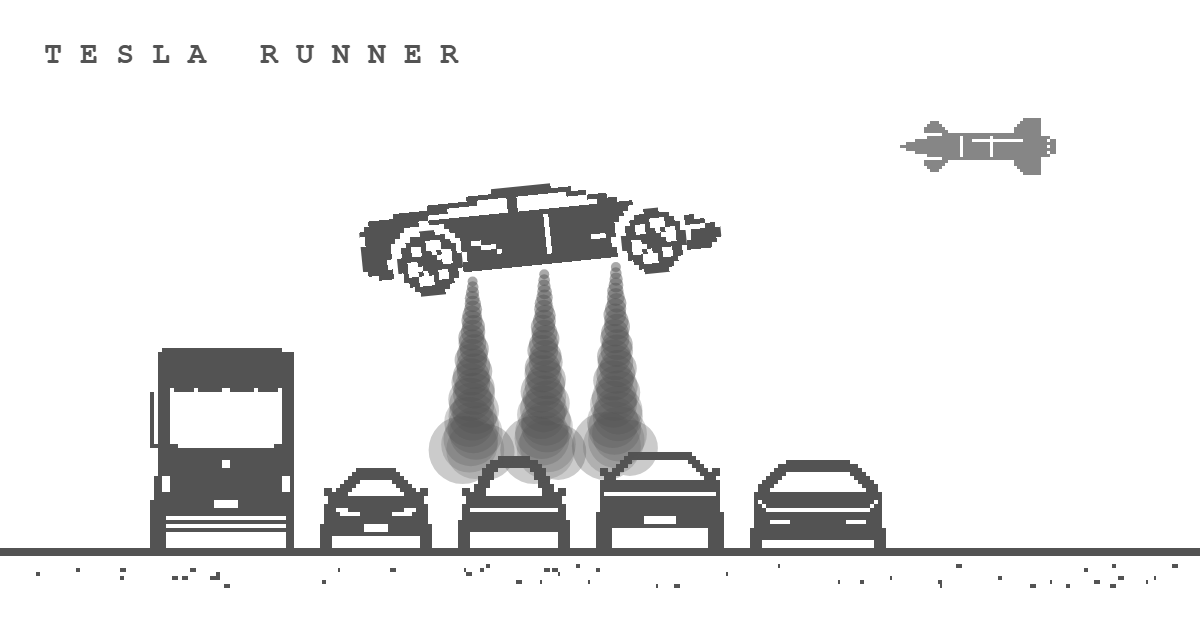
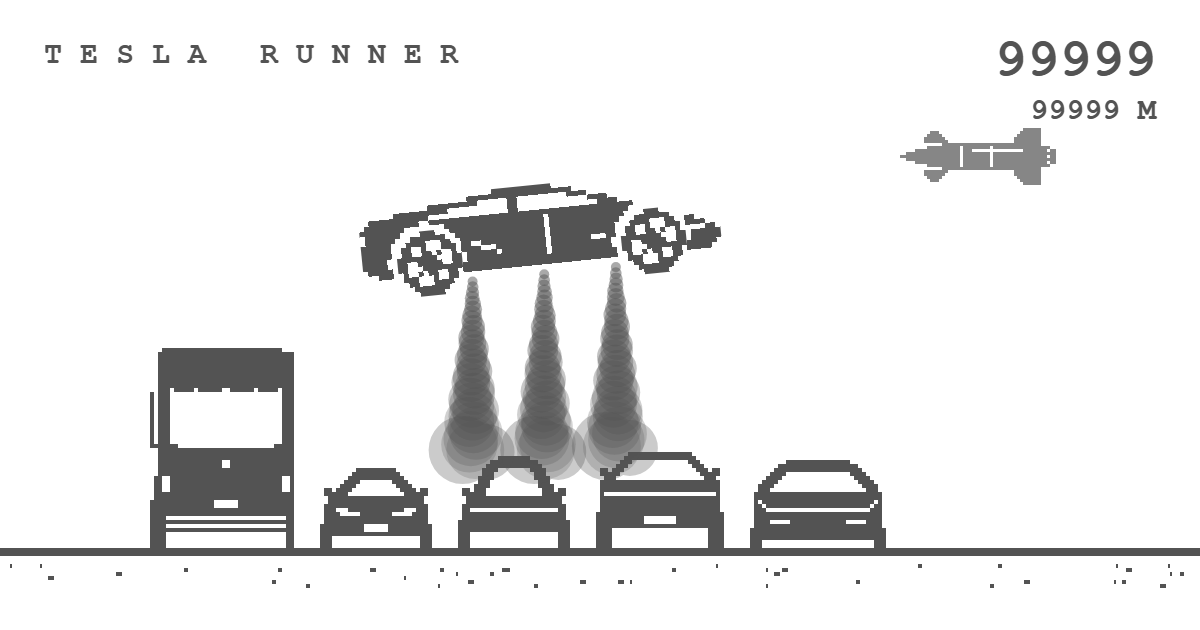
Espacio respeta el nombre en escritura, tarjeta de enlace con og-image y Worker de Cloudflare para el leaderboard
- Espacio reinicia solo con el campo del nombre vacío; con texto escrito es un espacio del nombre
- Compartir en X: tuit localizado + enlace; la imagen sale como tarjeta (og:image 99999 pts / 99999 M)
- worker/: Cloudflare Worker que guarda el TOP 100 como scores.json en la rama leaderboard (con tests)
- README: guía de la opción Cloudflare

diff --git a/index.html b/index.html
@@ -4,14 +4,23 @@
 <meta charset="utf-8">
 <meta name="viewport" content="width=device-width, initial-scale=1, user-scalable=no">
 <title>Tesla Runner</title>
-<meta name="description" content="El juego del dinosaurio de Chrome con un Tesla Roadster propulsado por gas frío.">
+<meta name="description" content="Tesla Runner: el juego del dinosaurio de Chrome con un Tesla Roadster propulsado por gas frío. Salta, vuela y haz piruetas.">
+<meta property="og:type" content="website">
 <meta property="og:title" content="Tesla Runner">
-<meta property="og:description" content="El juego del dinosaurio de Chrome con un Tesla Roadster propulsado por gas frío.">
+<meta property="og:description" content="El juego del dinosaurio de Chrome con un Tesla Roadster propulsado por gas frío. ¿Cuántos puntos haces?">
+<meta property="og:url" content="https://jamarlli.github.io/tesla-runner/">
 <meta property="og:image" content="https://jamarlli.github.io/tesla-runner/og-image.png">
+<meta property="og:image:width" content="1200">
+<meta property="og:image:height" content="630">
+<meta property="og:image:alt" content="El Tesla Roadster flotando sobre una fila de coches con gas frío y un Starship acercándose, con 99999 puntos y 99999 metros">
 <meta name="twitter:card" content="summary_large_image">
+<meta name="twitter:title" content="Tesla Runner">
+<meta name="twitter:description" content="El juego del dinosaurio de Chrome con un Tesla Roadster propulsado por gas frío.">
+<meta name="twitter:image" content="https://jamarlli.github.io/tesla-runner/og-image.png">
 <script>
-  // URL del servidor del leaderboard (déjalo vacío si sirves el juego con server.js). Ejemplo: 'https://tesla-runner.fly.dev'
-  window.TESLA_RUNNER_API = '';
+  // API del leaderboard cuando el juego está en GitHub Pages (Worker de Cloudflare que guarda el TOP 100 en la rama "leaderboard" del repo).
+  // En local (localhost) se usa siempre server.js; con ?api=https://... se puede probar otro servidor.
+  window.TESLA_RUNNER_API = 'https://tesla-runner-api.paper-jev.workers.dev';
 </script>
 <style>
   html, body { margin: 0; height: 100%; background: #fff; transition: background 1s; }
@@ -64,7 +73,6 @@
   #over .foot { display: flex; justify-content: space-between; align-items: center; gap: 10px; flex-wrap: wrap; }
   #over .again { display: flex; gap: 8px; align-items: center; font-size: 10px; }
   #over .note { font-size: 10px; opacity: .7; text-transform: none; }
-  #toast { font-size: 10px; text-transform: none; min-height: 12px; }
   @media (max-width: 520px) { #board { columns: 1; } }
 </style>
 </head>
@@ -93,7 +101,6 @@
         <button id="shareBtn" type="button" class="kbtn">COMPARTIR EN X</button>
         <div class="again"><span class="key wide" data-k="Space">ESPACIO</span><span>JUGAR OTRA VEZ</span></div>
       </div>
-      <div id="toast"></div>
     </div>
   </div>
 </div>
@@ -997,8 +1004,15 @@ const ARROWS = { ArrowLeft: 'left', ArrowRight: 'right', ArrowDown: 'down' };
 const typing = e => e.target && /^(INPUT|TEXTAREA|BUTTON|SELECT)$/.test(e.target.tagName);
 document.addEventListener('keydown', e => {
   const overOpen = S.crashed && !$('over').hidden;
-  // con el leaderboard abierto: ESPACIO vuelve a jugar siempre (guardando antes el nombre si lo has escrito)
-  if (overOpen && e.code === 'Space') { e.preventDefault(); if (!e.repeat) playAgainFromOver(); return; }
+  // con el leaderboard abierto: ESPACIO vuelve a jugar, salvo que ya hayas empezado a escribir tu nombre
+  if (overOpen && e.code === 'Space') {
+    const inp = $('nameInput');
+    if (!$('nameForm').hidden && inp.value.length > 0) {      // ya has empezado a escribir: el espacio es un espacio del nombre
+      if (e.target !== inp) { e.preventDefault(); inp.focus(); if (inp.value.length < 12) inp.value += ' '; }
+      return;
+    }
+    e.preventDefault(); if (!e.repeat) playAgainFromOver(); return;                       // campo vacío: vuelve a jugar
+  }
   // las letras van solas al campo del nombre (sin tener que pulsar en él)
   if (overOpen && !$('nameForm').hidden && e.target !== $('nameInput') && /^[a-z0-9]$/i.test(e.key) && !e.ctrlKey && !e.metaKey && !e.altKey) { $('nameInput').focus(); return; }
   if (typing(e)) return;
@@ -1023,7 +1037,7 @@ document.addEventListener('keyup', e => {
 const $ = id => document.getElementById(id);
 // Leaderboard: con server.js es el mismo servidor ('/api/scores'). Si el juego está en un hosting estático (GitHub Pages...),
 // pon la URL de tu API en TESLA_RUNNER_API (arriba, en el <head>) o pásala con ?api=https://mi-api.example.com
-const API_BASE = (new URLSearchParams(location.search).get('api') || window.TESLA_RUNNER_API || '').replace(/\/$/, '');
+const API_BASE = (new URLSearchParams(location.search).get('api') || (/^(localhost|127\.)/.test(location.hostname) ? '' : window.TESLA_RUNNER_API) || '').replace(/\/$/, '');
 const API = API_BASE ? API_BASE + '/api/scores'
   : (location.protocol.startsWith('http') && !/\.github\.io$/.test(location.hostname) ? '/api/scores' : null);
 const LS_BOARD = 'teslaRunnerBoard', LS_NAME = 'teslaRunnerName';
@@ -1082,8 +1096,10 @@ function topRank(list, sc) {
 async function showOver() {
   finalScore = score();
   $('finalScore').textContent = pad(finalScore);
-  $('nameForm').hidden = true; $('saved').hidden = true; $('saveBtn').disabled = false; $('topMsg').textContent = ''; $('toast').textContent = '';
-  try { $('nameInput').value = localStorage.getItem(LS_NAME) || ''; } catch (e) {}
+  $('nameForm').hidden = true; $('saved').hidden = true; $('saveBtn').disabled = false; $('topMsg').textContent = '';
+  $('nameInput').value = '';
+  let last = ''; try { last = localStorage.getItem(LS_NAME) || ''; } catch (e) {}
+  $('nameInput').placeholder = last || 'NOMBRE';
   $('over').hidden = false; document.body.classList.add('overOpen');
   const list = await refreshBoard(null);
   if (!S.crashed) return;
@@ -1103,7 +1119,8 @@ function hideOver() {
 const wantsSave = () => !$('over').hidden && !$('nameForm').hidden && !$('saveBtn').disabled && $('nameInput').value.trim().length > 0;
 async function saveScore() {
   if ($('saveBtn').disabled) return;
-  const name = $('nameInput').value.replace(/[<>]/g, '').trim().slice(0, 12).toUpperCase() || 'ANÓNIMO', sc = finalScore;
+  let last = ''; try { last = localStorage.getItem(LS_NAME) || ''; } catch (e) {}
+  const name = ($('nameInput').value || last).replace(/[<>]/g, '').replace(/\s+/g, ' ').trim().slice(0, 12).toUpperCase() || 'ANÓNIMO', sc = finalScore;
   try { localStorage.setItem(LS_NAME, name); } catch (err) {}
   $('saveBtn').disabled = true;
   const entry = await postScore(name, sc);
@@ -1113,40 +1130,42 @@ async function saveScore() {
   $('topMsg').textContent = ''; $('saved').hidden = false; $('saved').textContent = '¡Guardado!';
   await refreshBoard(entry);
 }
-// Espacio con el panel abierto: guarda el nombre (si lo has escrito) y vuelve a jugar
-function playAgainFromOver() { if (wantsSave()) saveScore(); press(); }
+function playAgainFromOver() { press(); }
 
-/* ----- Compartir en X: texto en el idioma del navegador + imagen de la demo con tu puntuación ----- */
+/* ----- Compartir en X: texto en el idioma del navegador + enlace. La imagen la pone X sola como tarjeta del enlace (og:image) ----- */
 const I18N = {
-  es: { text: '¡He conseguido {n} puntos en Tesla Runner! 🚗🚀 ¿Me superas?', copied: 'Imagen copiada: pégala con Ctrl+V en el tuit', saved: 'Imagen descargada: adjúntala al tuit' },
-  en: { text: 'I scored {n} points in Tesla Runner! 🚗🚀 Can you beat me?', copied: 'Image copied: paste it with Ctrl+V in the tweet', saved: 'Image downloaded: attach it to your tweet' },
-  fr: { text: "J'ai marqué {n} points sur Tesla Runner ! 🚗🚀 Tu peux faire mieux ?", copied: 'Image copiée : colle-la avec Ctrl+V dans le tweet', saved: 'Image téléchargée : joins-la au tweet' },
-  de: { text: 'Ich habe {n} Punkte bei Tesla Runner erreicht! 🚗🚀 Schaffst du mehr?', copied: 'Bild kopiert: mit Strg+V in den Tweet einfügen', saved: 'Bild heruntergeladen: an den Tweet anhängen' },
-  pt: { text: 'Fiz {n} pontos no Tesla Runner! 🚗🚀 Consegues superar-me?', copied: 'Imagem copiada: cola com Ctrl+V no tweet', saved: 'Imagem descarregada: anexa ao tweet' },
-  it: { text: 'Ho fatto {n} punti a Tesla Runner! 🚗🚀 Riesci a battermi?', copied: 'Immagine copiata: incollala con Ctrl+V nel tweet', saved: 'Immagine scaricata: allegala al tweet' },
-  ca: { text: 'He aconseguit {n} punts a Tesla Runner! 🚗🚀 Em pots superar?', copied: 'Imatge copiada: enganxa-la amb Ctrl+V al tuit', saved: 'Imatge descarregada: adjunta-la al tuit' },
+  es: '¡He conseguido {n} puntos en Tesla Runner! 🚗🚀 ¿Me superas?',
+  en: 'I scored {n} points in Tesla Runner! 🚗🚀 Can you beat me?',
+  fr: "J'ai marqué {n} points sur Tesla Runner ! 🚗🚀 Tu peux faire mieux ?",
+  de: 'Ich habe {n} Punkte bei Tesla Runner erreicht! 🚗🚀 Schaffst du mehr?',
+  pt: 'Fiz {n} pontos no Tesla Runner! 🚗🚀 Consegues superar-me?',
+  it: 'Ho fatto {n} punti a Tesla Runner! 🚗🚀 Riesci a battermi?',
+  ca: 'He aconseguit {n} punts a Tesla Runner! 🚗🚀 Em pots superar?',
 };
 const userLang = () => { const l = ((navigator.languages && navigator.languages[0]) || navigator.language || 'en').slice(0, 2).toLowerCase(); return I18N[l] ? l : 'en'; };
+function shareScore() {
+  const text = I18N[userLang()].replace('{n}', finalScore);
+  const pageUrl = location.protocol.startsWith('http') && !/^(localhost|127\.)/.test(location.hostname) ? location.href.split('?')[0] : '';
+  let u = 'https://x.com/intent/post?text=' + encodeURIComponent(text) + '&hashtags=TeslaRunner';
+  if (pageUrl) u += '&url=' + encodeURIComponent(pageUrl);
+  window.open(u, '_blank', 'noopener');
+}
 
-// Imagen 1200x630 imitando la demo: el Roadster flotando sobre una fila de coches con gas frío, un Starship acercándose a lo lejos
-// y la puntuación en la esquina superior derecha (como en el juego). Con sc = null no pone puntuación (imagen para la tarjeta del enlace).
-function makeShareImage(sc) {
+// Genera og-image.png (1200x630): el Roadster flotando sobre una fila de coches con gas frío, un Starship acercándose a lo lejos
+// y puntos/metros arriba a la derecha. Se usa como tarjeta del enlace; se regenera con ?debug -> T.makeShareImage(99999, 9999)
+function makeShareImage(sc, meters) {
   const c = document.createElement('canvas'); c.width = 1200; c.height = 630; const g = c.getContext('2d');
   g.imageSmoothingEnabled = false; g.fillStyle = '#fff'; g.fillRect(0, 0, 1200, 630);
   const U = 4, gy = 548;
-  // suelo
   g.fillStyle = COLOR; g.fillRect(0, gy, 1200, 4); g.drawImage(groundTex, 0, 2, 600, 10, 0, gy + 4, 1200, 40);
-  // fila de coches (como en la presentación)
   const lineup = ['SEMI', 'M3', 'MY', 'CT', 'CC'], boxes = []; let x = 150;
   lineup.forEach(k => { const s = front(k); g.drawImage(s, x, gy - s.height * U, s.width * U, s.height * U); boxes.push([x, x + s.width * U, gy - s.height * U]); x += s.width * U + 26; });
   const topAt = px => { const b = boxes.find(q => px >= q[0] && px <= q[1]); return b ? b[2] : gy; };
-  // Roadster flotando, ligeramente inclinado
   const R = 5, cx = 540, cy = 232, ang = -0.1;
   const nz = [CAR_W * 0.3, CAR_W * 0.5, CAR_W * 0.7].map(nx => {
     const lx = (nx - CAR_W / 2) * R, ly = (18 - CAR_H / 2) * R;
     return [cx + lx * Math.cos(ang) - ly * Math.sin(ang), cy + lx * Math.sin(ang) + ly * Math.cos(ang)];
   });
-  // gas frío de los tres propulsores
   g.fillStyle = COLOR;
   nz.forEach(([nx, ny], k) => {
     const end = topAt(nx) - 6, len = Math.max(40, end - ny);
@@ -1161,32 +1180,13 @@ function makeShareImage(sc) {
   g.drawImage(roadBodySprite({ crashed: false, blink: false }), -CAR_W / 2, -CAR_H / 2);
   WHEELS.forEach(w => g.drawImage(wheelFrame(1), Math.round(w[0] - 6.5) - CAR_W / 2, Math.round(w[1] - 6.5) - CAR_H / 2));
   g.restore();
-  // Starship acercándose a lo lejos (más pequeño y más tenue)
-  g.globalAlpha = 0.7; g.drawImage(rocketSprite(0), 900, 118, 52 * 3, 19 * 3); g.globalAlpha = 1;
-  // textos
+  g.globalAlpha = 0.7; g.drawImage(rocketSprite(0), 900, 128, 52 * 3, 19 * 3); g.globalAlpha = 1;
   g.fillStyle = COLOR; g.textBaseline = 'top';
   g.font = "bold 30px 'Courier New', monospace"; g.textAlign = 'left'; g.fillText('T E S L A   R U N N E R', 44, 40);
-  if (sc != null) { g.font = "bold 54px 'Courier New', monospace"; g.textAlign = 'right'; g.fillText(pad(sc), 1156, 34); }
+  g.textAlign = 'right';
+  if (sc != null) { g.font = "bold 54px 'Courier New', monospace"; g.fillText(pad(sc), 1156, 34); }
+  if (meters != null) { g.font = "bold 30px 'Courier New', monospace"; g.fillText(meters + ' M', 1156, 96); }
   return c;
-}
-async function shareScore() {
-  const L = I18N[userLang()], sc = finalScore, text = L.text.replace('{n}', sc);
-  const pageUrl = location.protocol.startsWith('http') && !/^(localhost|127\.)/.test(location.hostname) ? location.href.split('?')[0] : '';
-  const btn = $('shareBtn'); btn.disabled = true;
-  try {
-    const blob = await new Promise(r => makeShareImage(sc).toBlob(r, 'image/png'));
-    const file = new File([blob], 'tesla-runner.png', { type: 'image/png' });
-    if (navigator.canShare && navigator.canShare({ files: [file] })) {          // móvil: hoja de compartir con la imagen adjunta
-      try { await navigator.share({ text: text + (pageUrl ? ' ' + pageUrl : ''), files: [file] }); return; } catch (e) { if (e && e.name === 'AbortError') return; }
-    }
-    let copied = false;                                                          // escritorio: imagen al portapapeles + ventana de X
-    try { await navigator.clipboard.write([new ClipboardItem({ 'image/png': blob })]); copied = true; } catch (e) {}
-    if (!copied) { const a = document.createElement('a'); a.href = URL.createObjectURL(blob); a.download = 'tesla-runner.png'; a.click(); setTimeout(() => URL.revokeObjectURL(a.href), 4000); }
-    $('toast').textContent = copied ? L.copied : L.saved;
-    let u = 'https://x.com/intent/post?text=' + encodeURIComponent(text) + '&hashtags=TeslaRunner';
-    if (pageUrl) u += '&url=' + encodeURIComponent(pageUrl);
-    window.open(u, '_blank', 'noopener');
-  } finally { btn.disabled = false; }
 }
 $('nameForm').addEventListener('submit', e => { e.preventDefault(); saveScore(); });
 $('shareBtn').addEventListener('click', shareScore);

diff --git a/worker/index.js b/worker/index.js
@@ -1,0 +1,96 @@
+// Tesla Runner · API del leaderboard como Cloudflare Worker.
+// El TOP 100 vive en un archivo (scores.json) de una rama del propio repo de GitHub: el Worker lo lee y, cuando entra una
+// puntuación nueva, hace un commit con el archivo actualizado. Misma API que server.js (GET/POST /api/scores).
+//
+// Variables (wrangler.toml): GITHUB_REPO, GITHUB_BRANCH, SCORES_PATH, ALLOWED_ORIGIN
+// Secreto (npx wrangler secret put GITHUB_TOKEN): token de GitHub con permiso "Contents: Read and write" SOLO sobre el repo.
+
+const MAX = 100;                 // solo se guarda el TOP 100
+const POSTS_PER_MINUTE = 8;      // límite por IP (en memoria, por instancia: ayuda, no es infalible)
+
+const top = (list, n) => list.slice().sort((a, b) => b.score - a.score || a.date - b.date).slice(0, n);
+const b64enc = str => { let bin = ''; new TextEncoder().encode(str).forEach(b => { bin += String.fromCharCode(b); }); return btoa(bin); };
+const b64dec = b64 => new TextDecoder().decode(Uint8Array.from(atob(b64.replace(/\s/g, '')), c => c.charCodeAt(0)));
+
+const cors = env => ({
+  'Access-Control-Allow-Origin': env.ALLOWED_ORIGIN || '*',
+  'Access-Control-Allow-Methods': 'GET, POST, OPTIONS',
+  'Access-Control-Allow-Headers': 'Content-Type',
+});
+const reply = (env, code, body) => new Response(code === 204 ? null : JSON.stringify(body), {
+  status: code, headers: { 'Content-Type': 'application/json; charset=utf-8', 'Cache-Control': 'no-store', ...cors(env) },
+});
+
+function github(env, query, init = {}) {
+  const url = `https://api.github.com/repos/${env.GITHUB_REPO}/contents/${env.SCORES_PATH || 'scores.json'}${query}`;
+  return fetch(url, {
+    ...init,
+    headers: {
+      Authorization: `Bearer ${env.GITHUB_TOKEN}`, Accept: 'application/vnd.github+json', 'User-Agent': 'tesla-runner-worker',
+      'X-GitHub-Api-Version': '2022-11-28', ...(init.headers || {}),
+    },
+  });
+}
+const branch = env => env.GITHUB_BRANCH || 'leaderboard';
+
+async function readScores(env) {
+  const r = await github(env, `?ref=${encodeURIComponent(branch(env))}`);
+  if (r.status === 404) return { list: [], sha: null };
+  if (!r.ok) throw new Error('GitHub GET ' + r.status);
+  const j = await r.json();
+  let list = []; try { list = JSON.parse(b64dec(j.content)); } catch (e) {}
+  return { list: Array.isArray(list) ? list : [], sha: j.sha };
+}
+function writeScores(env, list, sha, message) {
+  const body = {
+    message, content: b64enc(JSON.stringify(list, null, 2) + '\n'), branch: branch(env),
+    committer: { name: 'Tesla Runner Leaderboard', email: 'leaderboard@users.noreply.github.com' },
+  };
+  if (sha) body.sha = sha;
+  return github(env, '', { method: 'PUT', body: JSON.stringify(body), headers: { 'Content-Type': 'application/json' } });
+}
+
+const hits = new Map();
+function limited(ip) {
+  const now = Date.now(), arr = (hits.get(ip) || []).filter(t => now - t < 60000);
+  if (arr.length >= POSTS_PER_MINUTE) { hits.set(ip, arr); return true; }
+  arr.push(now); hits.set(ip, arr); return false;
+}
+let cache = { t: 0, list: null };      // caché de 5 s para no gastar cuota de la API de GitHub en cada apertura del popup
+
+export default {
+  async fetch(request, env) {
+    const url = new URL(request.url);
+    if (request.method === 'OPTIONS') return reply(env, 204);
+    if (url.pathname === '/healthz') return reply(env, 200, { ok: true });
+    if (url.pathname !== '/api/scores') return reply(env, 404, { error: 'No encontrado' });
+    try {
+      if (request.method === 'GET') {
+        if (cache.list && Date.now() - cache.t < 5000) return reply(env, 200, cache.list);
+        const { list } = await readScores(env);
+        cache = { t: Date.now(), list: top(list, MAX) };
+        return reply(env, 200, cache.list);
+      }
+      if (request.method !== 'POST') return reply(env, 405, { error: 'Método no permitido' });
+      if (limited(request.headers.get('CF-Connecting-IP') || 'local')) return reply(env, 429, { error: 'Demasiados envíos, espera un minuto' });
+      let data; try { data = await request.json(); } catch (e) { return reply(env, 400, { error: 'JSON inválido' }); }
+      const score = Math.floor(Number(data.score));
+      const name = String(data.name || '').replace(/[\u0000-\u001f<>]/g, '').replace(/\s+/g, ' ').trim().slice(0, 12);
+      if (!name || !Number.isFinite(score) || score < 0 || score > 999999) return reply(env, 400, { error: 'Datos no válidos' });
+      for (let attempt = 0; attempt < 4; attempt++) {
+        const { list, sha } = await readScores(env);
+        const sorted = top(list, MAX);
+        if (sorted.length >= MAX && score <= sorted[MAX - 1].score) return reply(env, 403, { error: 'No entra en el TOP ' + MAX });
+        const entry = { name, score, date: Date.now() };
+        const next = top([...list, entry], MAX);
+        const r = await writeScores(env, next, sha, `score: ${name} ${score}`);
+        if (r.ok) { cache = { t: Date.now(), list: next }; return reply(env, 201, entry); }
+        if (r.status !== 409 && r.status !== 422) throw new Error('GitHub PUT ' + r.status);
+        // 409/422: alguien escribió a la vez (sha desactualizado) -> se vuelve a leer y se reintenta
+      }
+      return reply(env, 503, { error: 'Ocupado, inténtalo de nuevo' });
+    } catch (e) {
+      return reply(env, 502, { error: 'Error con el almacenamiento del leaderboard' });
+    }
+  },
+};

diff --git a/README.md b/README.md
@@ -7,7 +7,7 @@ El juego del dinosaurio de Chrome, pero con un **Tesla Roadster** que se propuls
 - Cada ~271 puntos aparece una **rampa gigante**: te lleva boca abajo por el techo y tienes que girar en el aire para caer sobre las ruedas.
 - Flips, barrel rolls y combos suman puntos. Aterriza mal y explotas.
 - Leaderboard TOP 100 guardado en un archivo (`scores.json`).
-- Botón **Compartir en X**: texto en el idioma del navegador y una imagen con tu puntuación (en móvil se adjunta sola; en escritorio se copia al portapapeles para pegarla en el tuit).
+- Botón **Compartir en X**: tuit con tu puntuación en el idioma del navegador (es, en, fr, de, pt, it, ca) y el enlace del juego, que X muestra con una tarjeta de imagen (`og-image.png`).
 
 ## Controles
 
@@ -18,7 +18,7 @@ El juego del dinosaurio de Chrome, pero con un **Tesla Roadster** que se propuls
 | `←` `→` | Flips en el aire (un toque = 1 vuelta; mantenido = vueltas seguidas; al soltar termina la vuelta) |
 | `↓` | Barrel roll en sentido contrario |
 | `INTRO` | Atajo de pruebas: salta a 10 puntos de la siguiente rampa |
-| `ESPACIO` en el game over | Vuelve a jugar al instante (si has escrito tu nombre para el TOP 100, lo guarda antes) |
+| `ESPACIO` en el game over | Vuelve a jugar al instante. Si ya has empezado a escribir tu nombre para el TOP 100, el espacio es un espacio del nombre; `INTRO` lo guarda |
 
 En móvil: toca la pantalla para saltar y mantén para propulsarte.
 
@@ -68,6 +68,24 @@ docker run -d -p 3000:3000 -v tesla-data:/data tesla-runner
 
 Sin API configurada, en GitHub Pages el leaderboard funciona en modo local.
 
+### Opción C — Cloudflare Worker que guarda el TOP 100 en un archivo del repo (la que usa la versión de GitHub Pages)
+
+Sin servidor propio y gratis. El Worker (`worker/index.js`) expone el mismo API (`GET/POST /api/scores`) y guarda el ranking en `scores.json` de la **rama `leaderboard`** del propio repo: cada puntuación que entra en el TOP 100 es un commit. Así el archivo está versionado y a la vista, y el historial de `main` no se llena de commits de puntuaciones.
+
+1. Crea la rama de datos con un `scores.json` vacío (`[]`) en el repo: es una rama aparte, sin relación con `main`.
+2. Crea un [token de GitHub de grano fino](https://github.com/settings/personal-access-tokens/new) con acceso **solo a este repo** y el permiso **Contents: Read and write**.
+3. Despliega el Worker (necesitas una cuenta de Cloudflare):
+   ```bash
+   cd worker
+   npx wrangler login
+   npx wrangler secret put GITHUB_TOKEN     # pega el token del paso 2
+   npx wrangler deploy
+   ```
+4. Pon la URL del Worker en `window.TESLA_RUNNER_API` (`index.html`) y su dominio de juego en `ALLOWED_ORIGIN` (`worker/wrangler.toml`).
+5. Prueba el Worker en local con GitHub simulado: `node worker/test.mjs`.
+
+El token es un secreto de Cloudflare: **nunca** va en el repo ni en `index.html`. La lista de puntuaciones se puede ver en `https://github.com/<tu-usuario>/tesla-runner/blob/leaderboard/scores.json`.
+
 ### Variables de entorno del servidor
 
 | Variable | Por defecto | Descripción |
@@ -84,6 +102,8 @@ Sin API configurada, en GitHub Pages el leaderboard funciona en modo local.
 ```
 index.html   el juego completo (canvas, sprites en pixel art, física, UI del leaderboard)
 server.js    servidor sin dependencias: sirve el juego y guarda scores.json
+worker/      Worker de Cloudflare: guarda el TOP 100 como scores.json en la rama `leaderboard`
+og-image.png tarjeta de imagen del enlace (generada con el propio juego)
 Dockerfile   imagen lista para desplegar
 fly.toml     plantilla para Fly.io
 ```
